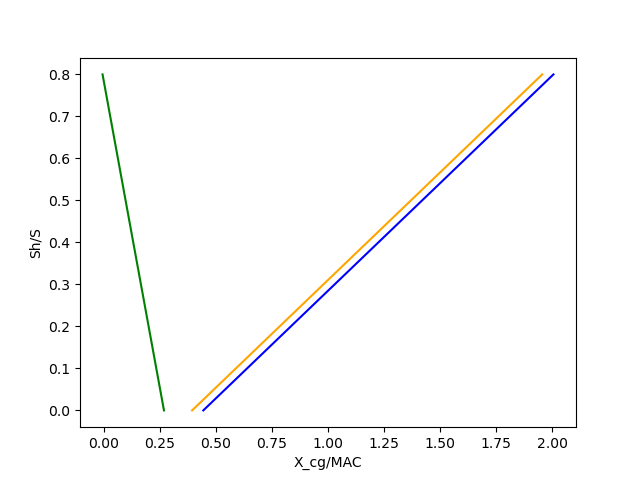
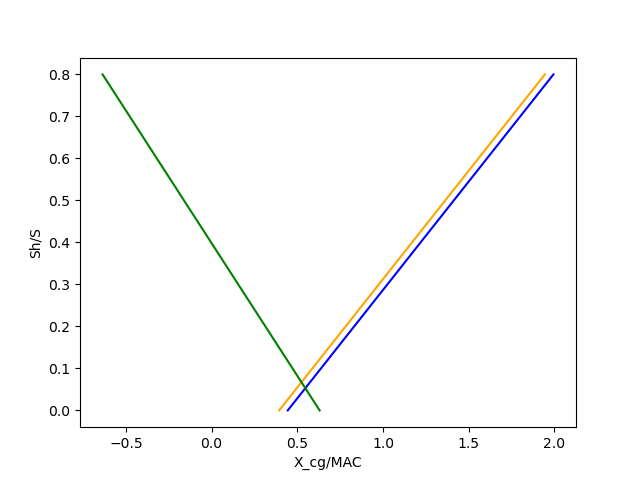
Fixed scissor

diff --git a/scissor_plot.py b/scissor_plot.py
@@ -9,11 +9,11 @@ def read_data(refdata):
     return dimensions
 
 
-def plot_scissor(x_ac, CL_ah, CL_a, de_da, l_h, MAC, Vh_V, SM, CL_h, Cmac):
+def plot_scissor(x_ac, CL_ah, CL_a, de_da, l_h, MAC, Vh_V, SM, CL_h, Cmac, CL_w):
     Sh_S = np.linspace(0, 0.8, 1000)
     x_np = CL_ah / CL_a * (1-de_da) * l_h/MAC * Vh_V**2 * Sh_S + x_ac
     x_cg = x_np - SM
-    x_cg_control = CL_h / CL_a * (1-de_da) * l_h/MAC * Vh_V**2 * Sh_S + x_ac - Cmac/CL_ah
+    x_cg_control = CL_h / CL_w * (1-de_da) * l_h/MAC * Vh_V**2 * Sh_S + x_ac - Cmac/CL_w
 
     plt.figure(1)
     plt.plot(x_np, Sh_S, color='b')
@@ -35,12 +35,12 @@ if __name__ == "__main__":
     CL_ah = data.iloc[1]
     CL_a = data.iloc[2]
     lh = data.iloc[3]
-    lh = 17
     de_da = data.iloc[4]
     x_ac = data.iloc[5]
     MAC = data.iloc[6]
 
+    CL_w = 1.47
     CL_h = -0.8
-    Cmac = -0.8
+    Cmac = -0.2736
 
-    plot_scissor(x_ac, CL_ah, CL_a, de_da, lh, MAC, Vh_V, SM, CL_h, Cmac)
+    plot_scissor(x_ac, CL_ah, CL_a, de_da, lh, MAC, Vh_V, SM, CL_h, Cmac, CL_w)
